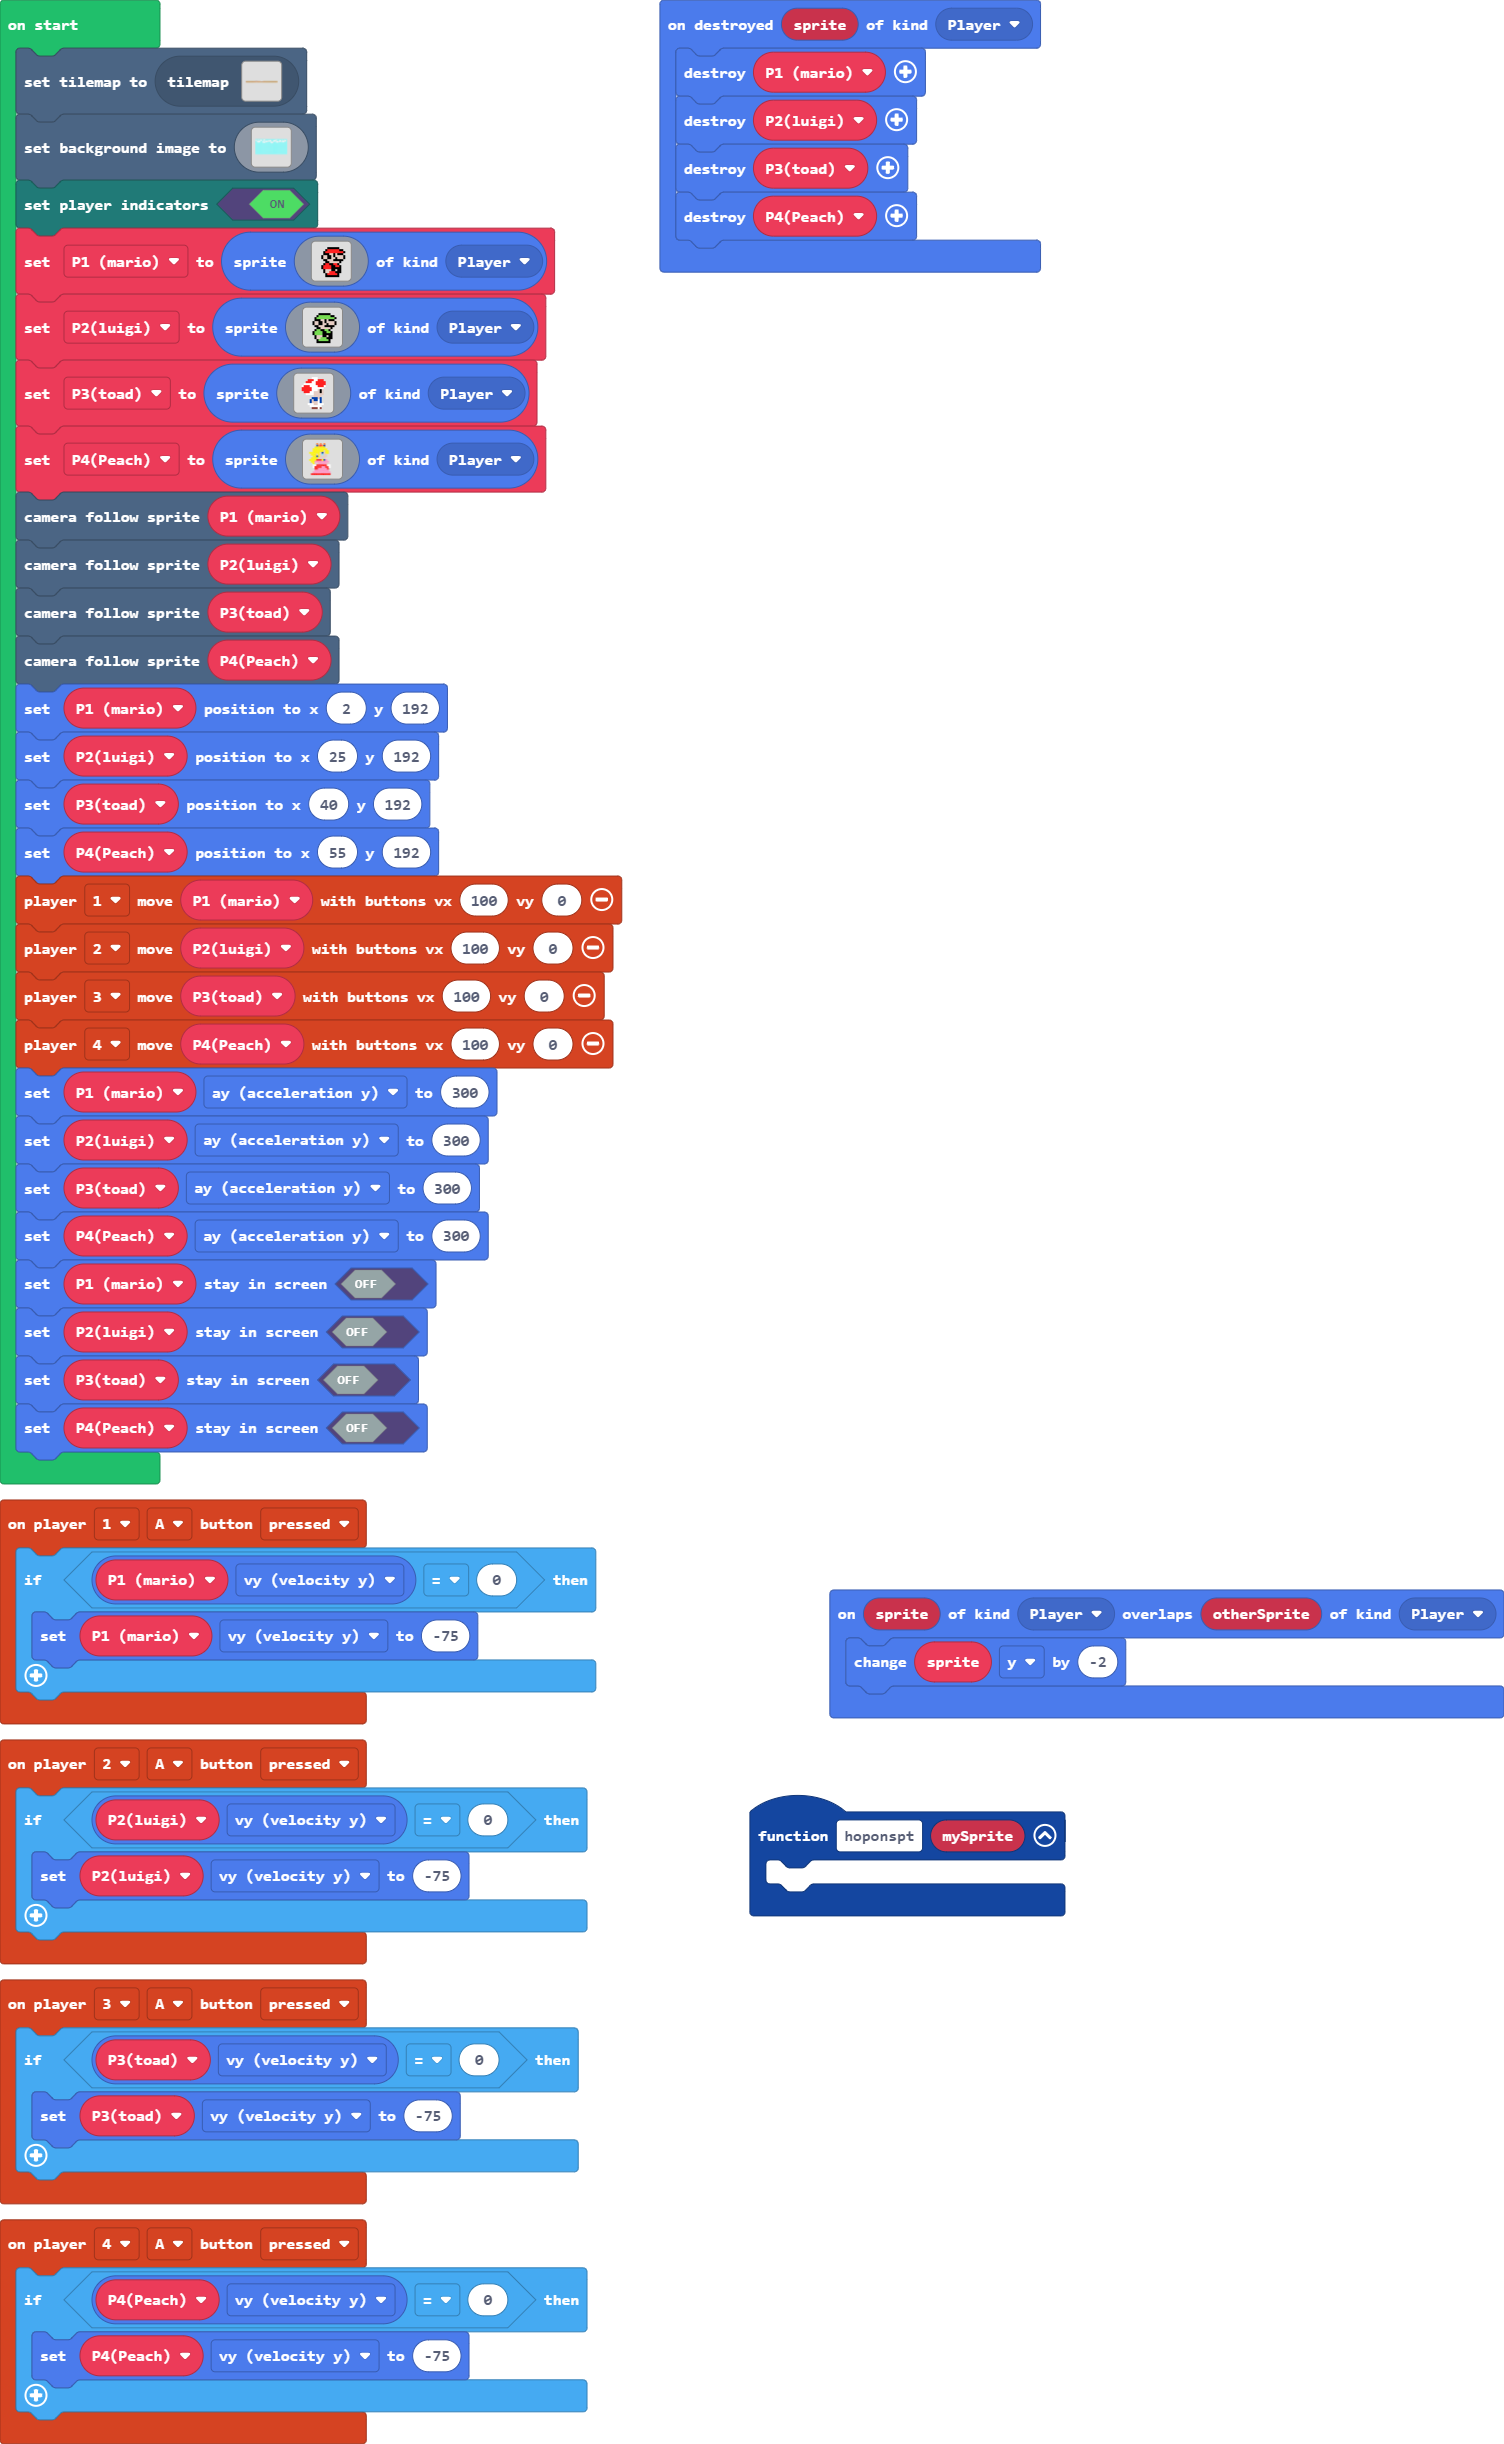
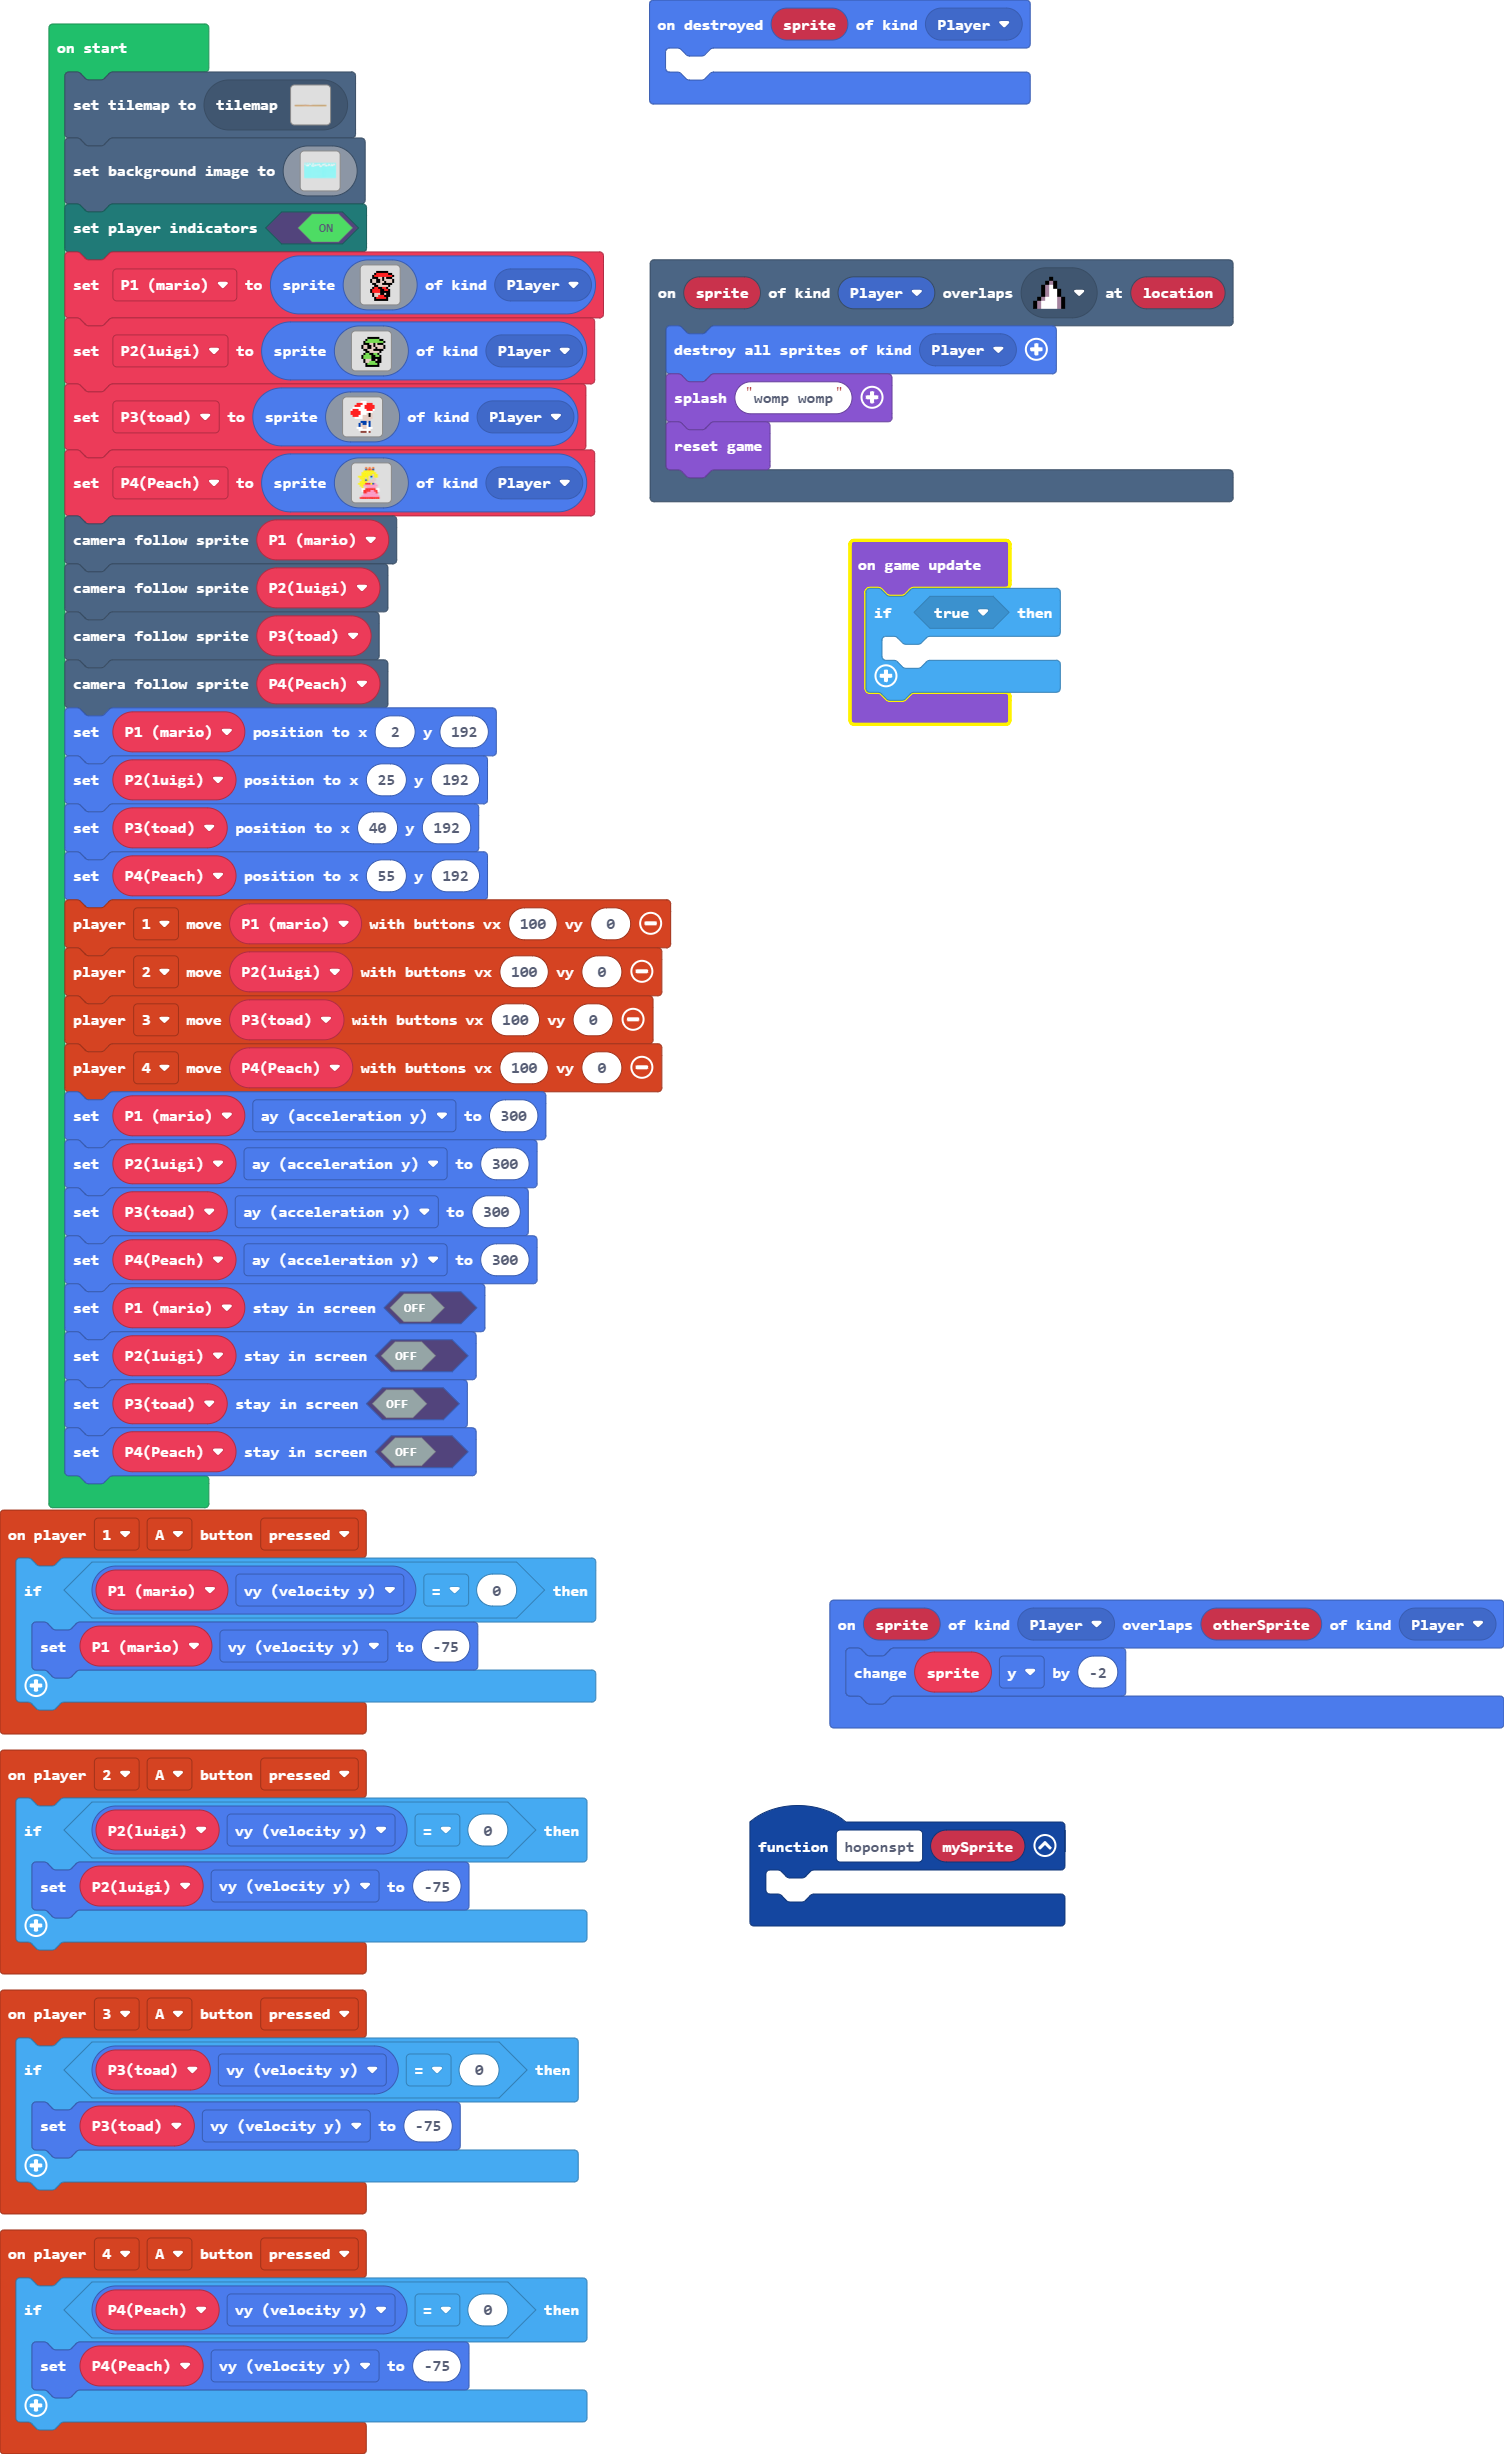
Update main.blocks, main.ts

Changed region(s): [[0.0, 0.0, 0.8438, 0.964], [0.5, 0.653, 1.0, 0.7774]]

diff --git a/main.ts b/main.ts
@@ -6,6 +6,11 @@ controller.player2.onButtonEvent(ControllerButton.A, ControllerButtonEvent.Press
         P2luigi.vy = -75
     }
 })
+scene.onOverlapTile(SpriteKind.Player, assets.tile`spike`, function (sprite, location) {
+    sprites.destroyAllSpritesOfKind(SpriteKind.Player)
+    game.splash("womp womp")
+    game.reset()
+})
 sprites.onOverlap(SpriteKind.Player, SpriteKind.Player, function (sprite, otherSprite) {
     sprite.y += -2
 })
@@ -25,10 +30,7 @@ controller.player3.onButtonEvent(ControllerButton.A, ControllerButtonEvent.Press
     }
 })
 sprites.onDestroyed(SpriteKind.Player, function (sprite) {
-    sprites.destroy(P1_mario)
-    sprites.destroy(P2luigi)
-    sprites.destroy(P3toad)
-    sprites.destroy(P4Peach)
+	
 })
 let P4Peach: Sprite = null
 let P3toad: Sprite = null
@@ -182,3 +184,8 @@ P1_mario.setStayInScreen(false)
 P2luigi.setStayInScreen(false)
 P3toad.setStayInScreen(false)
 P4Peach.setStayInScreen(false)
+game.onUpdate(function () {
+    if (true) {
+    	
+    }
+})
